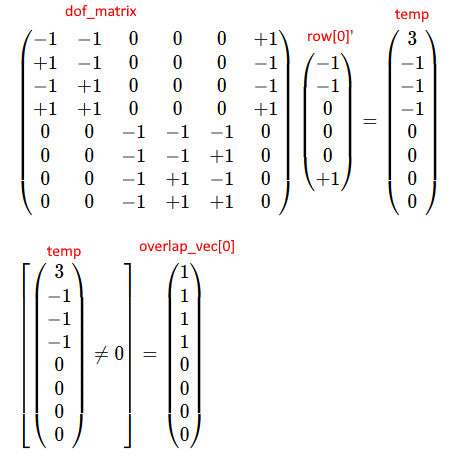
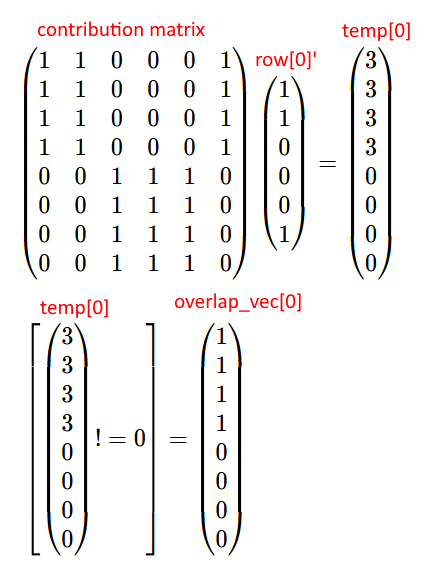
Fixed overlap vector math to work for all cases

Changed region(s): [[0.0299, 0.0, 0.9563, 0.9851]]

diff --git a/math/motor_control_math.py b/math/motor_control_math.py
@@ -25,10 +25,11 @@ dof_matrix = np.delete(motor_matrix, 0, axis=1)
 motor_num_vec = motor_matrix[:,0]
 
 # Construct overlap vectors for each motor
+contribution_matrix = (dof_matrix != 0).astype(int)
 overlap_vectors = []
-for r in range(np.size(dof_matrix, axis=0)):
-    v = np.transpose(dof_matrix[r,:])
-    overlap_vectors.append((np.matmul(dof_matrix, v) != 0).astype(int))
+for r in range(np.size(contribution_matrix, axis=0)):
+    v = np.transpose(contribution_matrix[r,:])
+    overlap_vectors.append((np.matmul(contribution_matrix, v) != 0).astype(int))
 
 
 ################################################################################

diff --git a/math/README.md b/math/README.md
@@ -130,9 +130,15 @@ If the previously described algorithm is applied `m = 3` which results in the fo
 
 However, this speed vector is scaled non-optimally. Notice that the maximum speed occurred at motor 5. However, motors 1, 2, 3, and 4 do not affect any of the same directions as motor 5. As such, it is not necessary to divide motor 1, 2, 3, 4 speeds by 3. Instead they should only be divided by 2 otherwise some DoF motions are slowed more than required (artificially reducing max speed).
 
-In reality, it is only necessary to divide the speeds of some motors depending on where the max speed is located. If the max speed occurs at motor *i*, it is only necessary to divide the speed of any motors that "overlap" with motor *i*. Overlap is defined as sharing a contribution in any DoF. In terms of the DoF matrix, two motors *i* and *j* overlap if the row for motor *i* and the row for motor *j* have a non-zero entry in the same column for at least one column. Mathematically, this means that the dot product of the two rows is non-zero.
+In reality, it is only necessary to divide the speeds of some motors depending on where the max speed is located. If the max speed occurs at motor *i*, it is only necessary to divide the speed of any motors that "overlap" with motor *i*. Overlap is defined as sharing a contribution in any DoF. In terms of the DoF matrix, two motors *i* and *j* overlap if the row for motor *i* and the row for motor *j* have a non-zero entry in the same column for at least one column. Mathematically, this is easier to calculate if a contribution matrix is defined as "the dof matrix is not equal to zero". The contribution matrix is a "binary version" of the dof matrix, where any non-zero entry in the dof matrix becomes a 1 in the contribution matrix (and any zero remains a zero). 
 
-To simplify later calculations an overlap vector will be generated for each motor in the dof matrix. The overlap vector is a vector of 1's and 0's indicating whether overlap occurs with the corresponding index motor in the speed vector. For motor i the overlap vector (`overlap_vec[i]`) is defined as "the product of the DoF Matrix and the transpose of row `i` of the DoF Matrix is not equal to zero". For example `overlap_vec[0]` is defined as follows
+<p align="center">
+    <img height="300" src="./img/contribution_matrix_calc.png">
+</p>
+
+Then, in terms of the contribution matrix, two motors *i* and *j* overlap if the row for motor *i* and motor *j* have a one entry in the same column for at least one column. Mathematically, the number of shared non-zero entries is the dot product of the two rows.
+
+To simplify later calculations an overlap vector will be generated for each motor in the dof matrix. The overlap vector is a vector of 1's and 0's indicating whether overlap occurs with the corresponding index motor in the speed vector. For motor i the overlap vector (`overlap_vec[i]`) is defined as "the product of the contribution matrix and the transpose of row `i` of the contribution matrix is not equal to zero". For example `overlap_vec[0]` is defined as follows
 
 <p align="center">
     <img height="425" src="./img/overlap_vec_calc.png">
